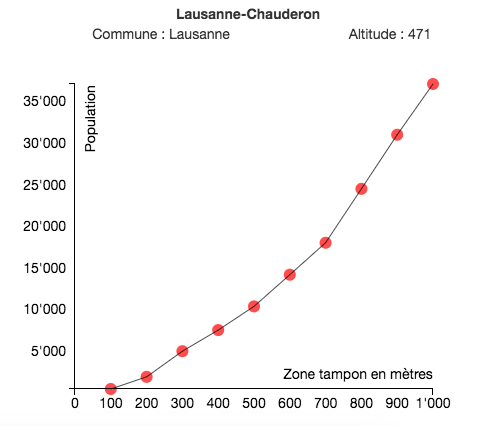
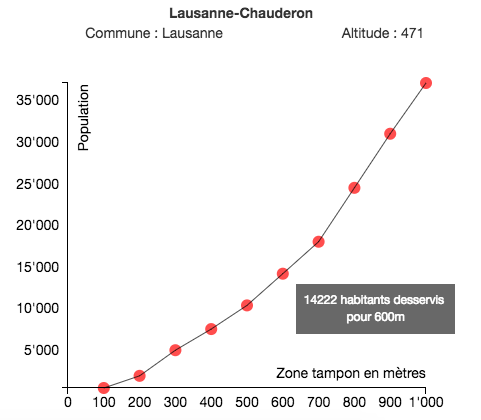
screenshot on readme

diff --git a/README.md b/README.md
@@ -64,7 +64,7 @@ Lorsque l'on place le curseur sur un arrêt de transport, la taille du cercle  a
 
 ![Alt text](img/Screen_buffer.png)
 
-Si l'utilisateur clique sur un arrêt de transport, un graphique va apparaître dans la section en bas à droite de page et va indiquer l'évolution de la population en fonction de la zone tampon choisie tout en indiquant le nombre d'habitants que l'arrêt de transport dessert.
+Si l'utilisateur clique sur un arrêt de transport, un graphique va apparaître dans la section en bas à droite de page. Ce graphique affiche l'évolution de la population en pour les différents rayons de zone tampons considérés. Lorsque le curseur est placé sur l'un des points, la valeur exacte de population desservie est affichée.
 
 ![Alt text](img/Screen_graph.png)
 
